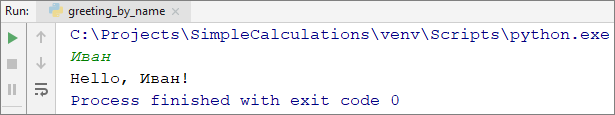
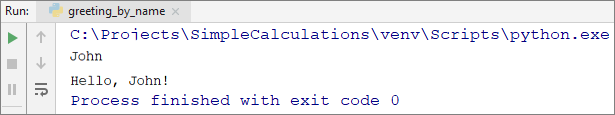
Trnaslate Image and Change Name to John

Changed region(s): [[0.0927, 0.6261, 0.3089, 0.7565], [0.0927, 0.4435, 0.1854, 0.5478], [0.2163, 0.3391, 0.2472, 0.3652]]

diff --git a/chapter-02-simple-calculations.md b/chapter-02-simple-calculations.md
@@ -163,7 +163,7 @@ print(name, end='!')
 
 By default, the built-in function **`print(…)`** prints the result and continues to the next line. This is because **`print(…)`** uses the parameter **`end`**, which by default has a value **`\n`** (new line). In order to stay on the same line, we can change the value of **`end=''`**.
 
-Here is the result if we call the function with the name "Ivan":
+Here is the result if we call the function with the name "John":
 
 ![](/assets/chapter-2-1-images/03.Greeting-by-name-00.png)
 
